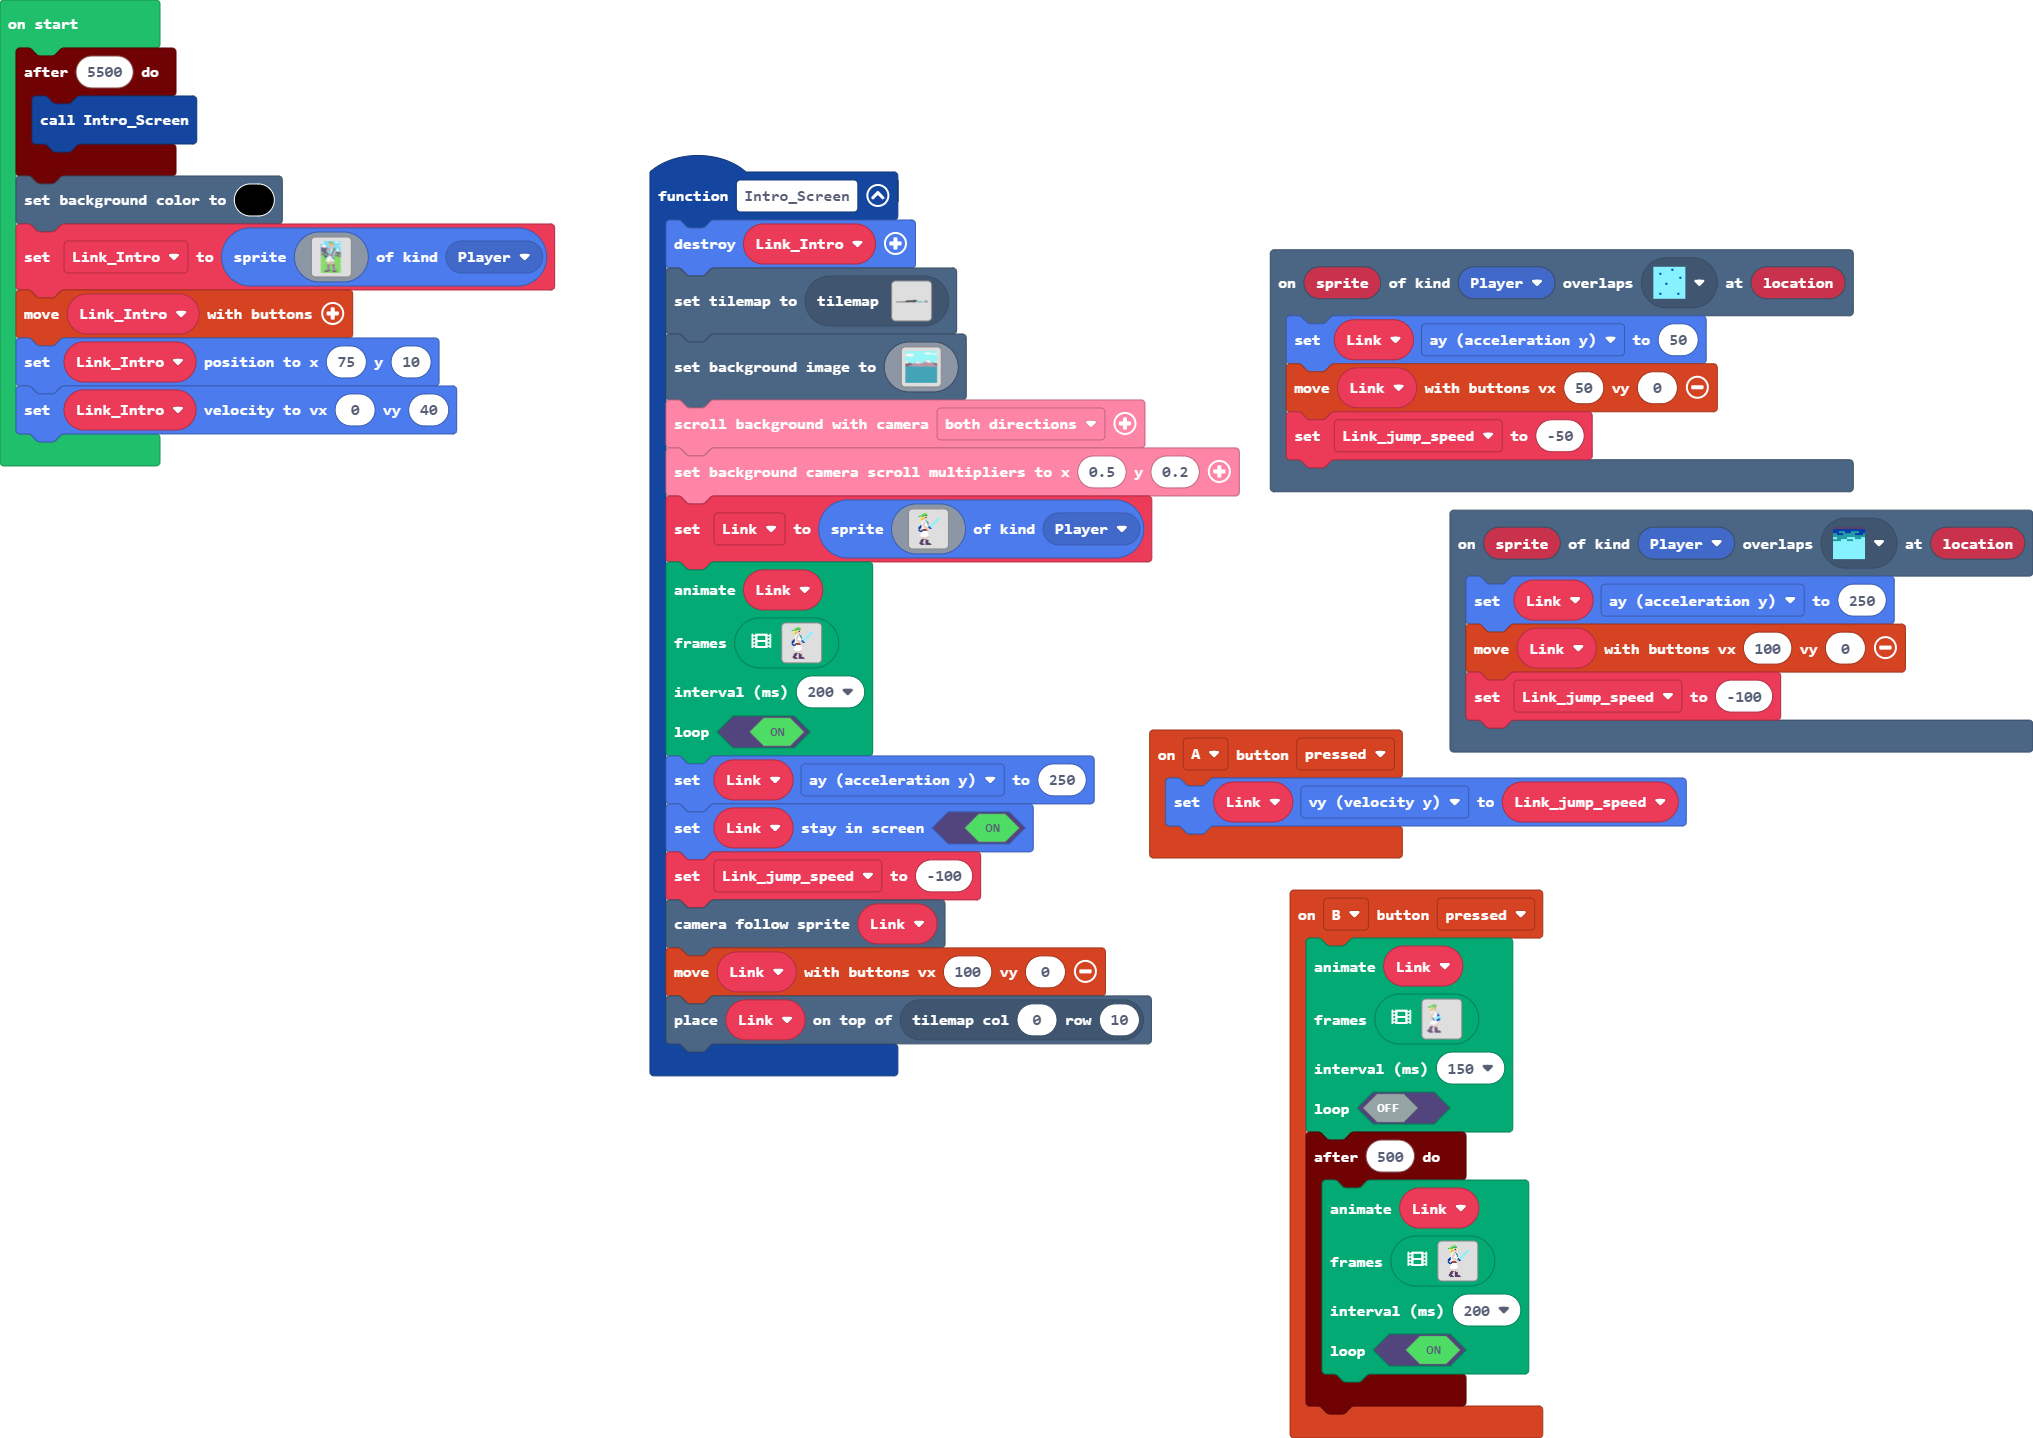
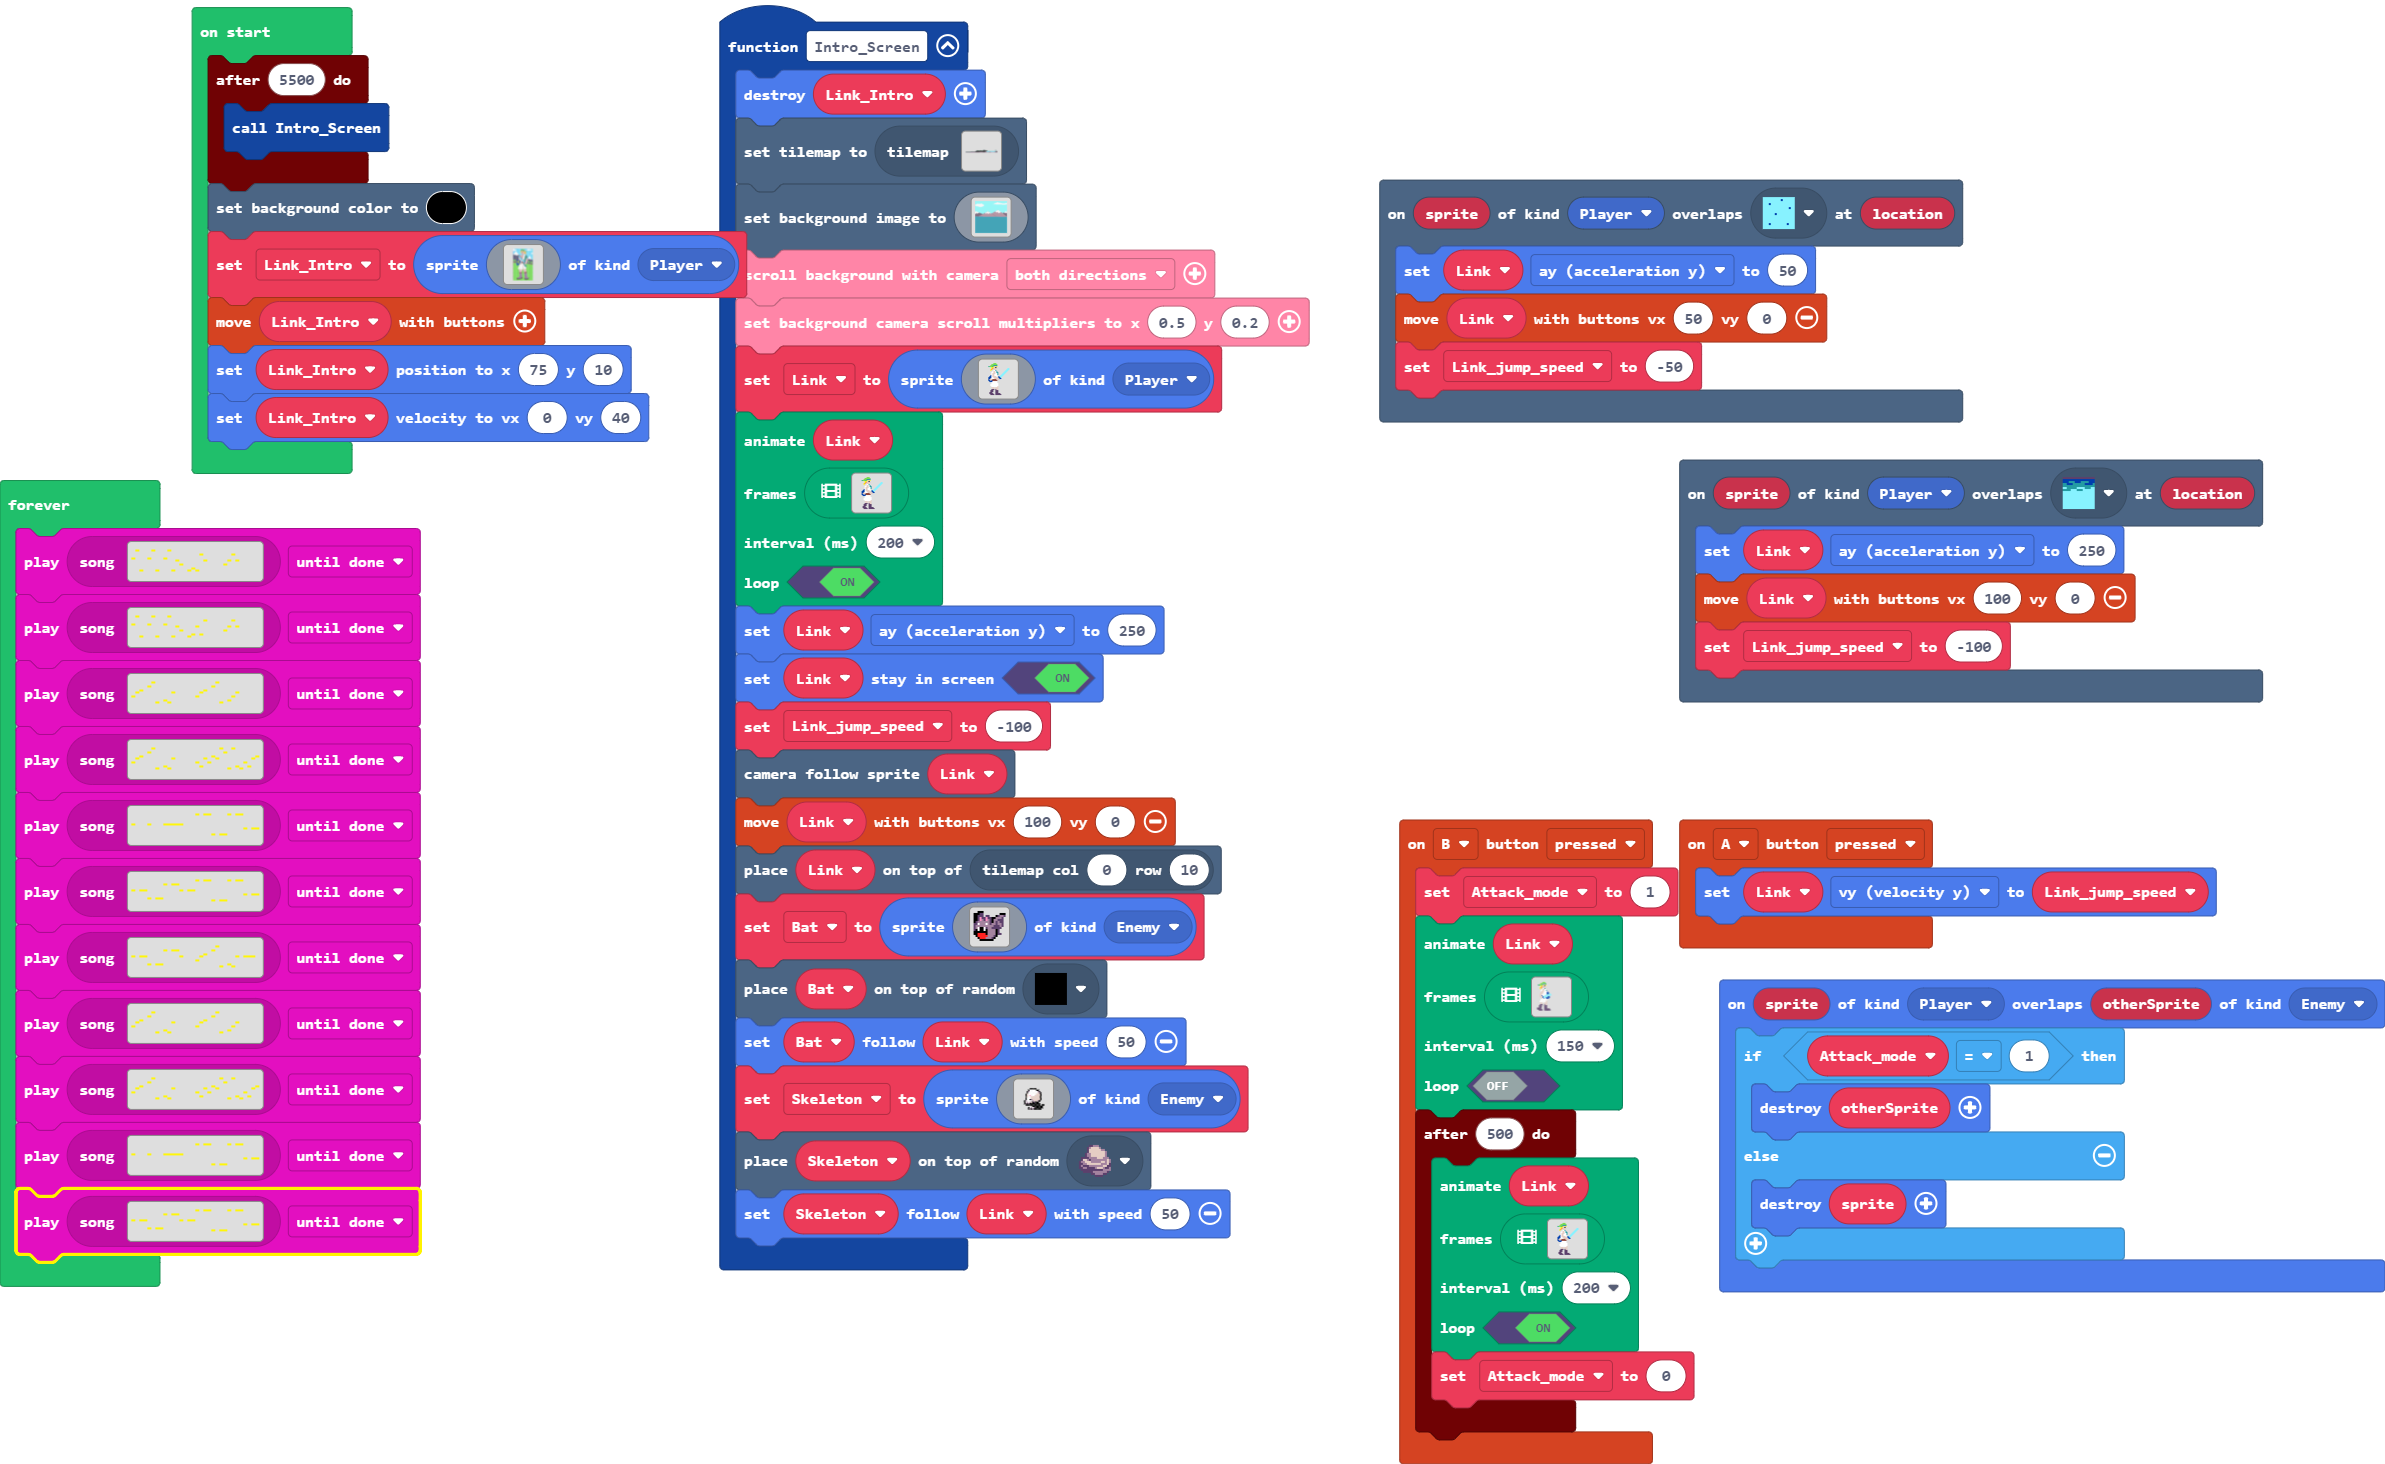
Update main.blocks, main.ts, tilemap.g.jres, tilemap.g.ts

diff --git a/tilemap.g.ts b/tilemap.g.ts
@@ -8,7 +8,7 @@ namespace myTiles {
     helpers._registerFactory("tilemap", function(name: string) {
         switch(helpers.stringTrim(name)) {
             case "level1":
[2 lines of base64/hex data omitted]
 ................................................................................................................................................................
 ................................................................................................................................................................
 ................................................................................................................................................................
@@ -25,7 +25,7 @@ namespace myTiles {
 222222222222222222222222........................2..................................................2222222.............22222........................2...........
 ................................................2.....................2222222222222222............222222222.......22222.....22222222.....2222222...2............
 ................................................222222222222222222222222222222222222222222222222222222222222222222..................22222.......222.............
-`, [myTiles.transparency16,sprites.builtin.forestTiles0,sprites.builtin.oceanSand3,sprites.dungeon.hazardWater,sprites.builtin.forestTiles6,sprites.builtin.forestTiles10,sprites.builtin.forestTiles9,sprites.builtin.forestTiles5,sprites.builtin.forestTiles12,sprites.builtin.forestTiles2,myTiles.tile1,sprites.dungeon.darkGroundCenter,sprites.dungeon.greenOuterWest1,sprites.dungeon.greenOuterEast0,sprites.dungeon.greenOuterNorth0], TileScale.Sixteen);
+`, [myTiles.transparency16,sprites.builtin.forestTiles0,sprites.builtin.oceanSand3,sprites.dungeon.hazardWater,sprites.builtin.forestTiles6,sprites.builtin.forestTiles10,sprites.builtin.forestTiles9,sprites.builtin.forestTiles5,sprites.builtin.forestTiles12,sprites.builtin.forestTiles2,myTiles.tile1,sprites.dungeon.darkGroundCenter,sprites.dungeon.greenOuterWest1,sprites.dungeon.greenOuterEast0,sprites.dungeon.greenOuterNorth0,sprites.castle.rock0], TileScale.Sixteen);
         }
         return null;
     })

diff --git a/main.ts b/main.ts
@@ -1,4 +1,5 @@
 controller.B.onEvent(ControllerButtonEvent.Pressed, function () {
+    Attack_mode = 1
     animation.runImageAnimation(
     Link,
     assets.animation`Link_attack`,
@@ -12,6 +13,7 @@ controller.B.onEvent(ControllerButtonEvent.Pressed, function () {
         200,
         true
         )
+        Attack_mode = 0
     })
 })
 scene.onOverlapTile(SpriteKind.Player, assets.tile`myTile`, function (sprite, location) {
@@ -235,14 +237,72 @@ function Intro_Screen () {
     scene.cameraFollowSprite(Link)
     controller.moveSprite(Link, 100, 0)
     tiles.placeOnTile(Link, tiles.getTileLocation(0, 10))
+    Bat = sprites.create(img`
+        . . f f f . . . . . . . . . . . 
+        f f f c c . . . . . . . . f f f 
+        f f c c c . c c . . . f c b b c 
+        f f c 3 c c 3 c c f f b b b c . 
+        f f c 3 b c 3 b c f b b c c c . 
+        f c b b b b b b c f b c b c c . 
+        c c 1 b b b 1 b c b b c b b c . 
+        c b b b b b b b b b c c c b c . 
+        c b 1 f f 1 c b b c c c c c . . 
+        c f 1 f f 1 f b b b b f c . . . 
+        f f f f f f f b b b b f c . . . 
+        f f 2 2 2 2 f b b b b f c c . . 
+        . f 2 2 2 2 2 b b b c f . . . . 
+        . . f 2 2 2 b b b c f . . . . . 
+        . . . f f f f f f f . . . . . . 
+        . . . . . . . . . . . . . . . . 
+        `, SpriteKind.Enemy)
+    tiles.placeOnRandomTile(Bat, sprites.builtin.forestTiles10)
+    Bat.follow(Link, 50)
+    Skeleton = sprites.create(img`
+        ........................
+        ........................
+        ........................
+        ........................
+        .........fffff..........
+        ........f11111ff........
+        .......fb111111bf.......
+        .......f1111111dbf......
+        ......fd111111dddf......
+        ......fd13111ddddf......
+        ......fd11dddddddf......
+        ......f111dddddddf......
+        ......f11fcddddddf......
+        .....fb1111bdddbf.......
+        .....f1b1bdfcfff........
+        .....fbfbffffffff.......
+        ......fffffffffff.ff....
+        ...........ffffffff.....
+        ........f1b1bffffff.....
+        ........fbfbffffff......
+        ........................
+        ........................
+        ........................
+        ........................
+        `, SpriteKind.Enemy)
+    tiles.placeOnRandomTile(Skeleton, sprites.castle.rock0)
+    Skeleton.follow(Link, 50)
 }
 scene.onOverlapTile(SpriteKind.Player, sprites.dungeon.hazardWater, function (sprite, location) {
     Link.ay = 250
     controller.moveSprite(Link, 100, 0)
     Link_jump_speed = -100
 })
+sprites.onOverlap(SpriteKind.Player, SpriteKind.Enemy, function (sprite, otherSprite) {
+    if (Attack_mode == 1) {
+        sprites.destroy(otherSprite)
+    } else {
+        sprites.destroy(sprite)
+    }
+})
+let Skeleton: Sprite = null
+let Bat: Sprite = null
 let Link_jump_speed = 0
 let Link: Sprite = null
+let Attack_mode = 0
 let Link_Intro: Sprite = null
 timer.after(5500, function () {
     Intro_Screen()
@@ -252,3 +312,16 @@ Link_Intro = sprites.create(assets.image`Link_Tears_Of_The_Kingdom`, SpriteKind.
 controller.moveSprite(Link_Intro)
 Link_Intro.setPosition(75, 10)
 Link_Intro.setVelocity(0, 40)
+forever(function () {
[11 lines of base64/hex data omitted]
+})
